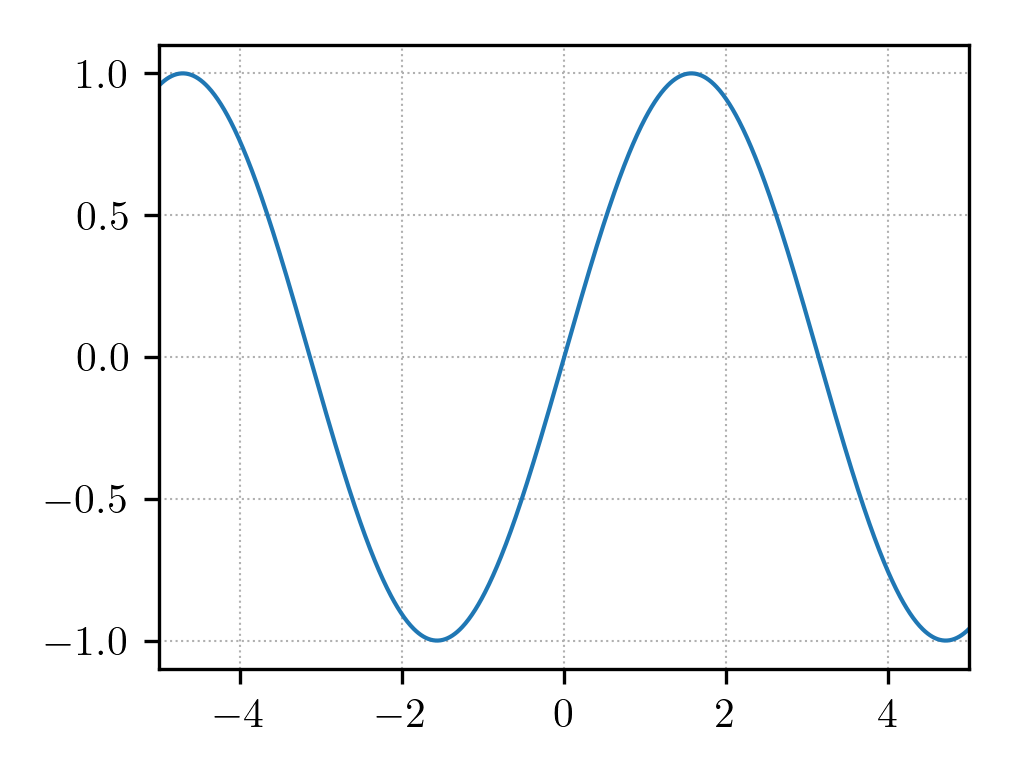
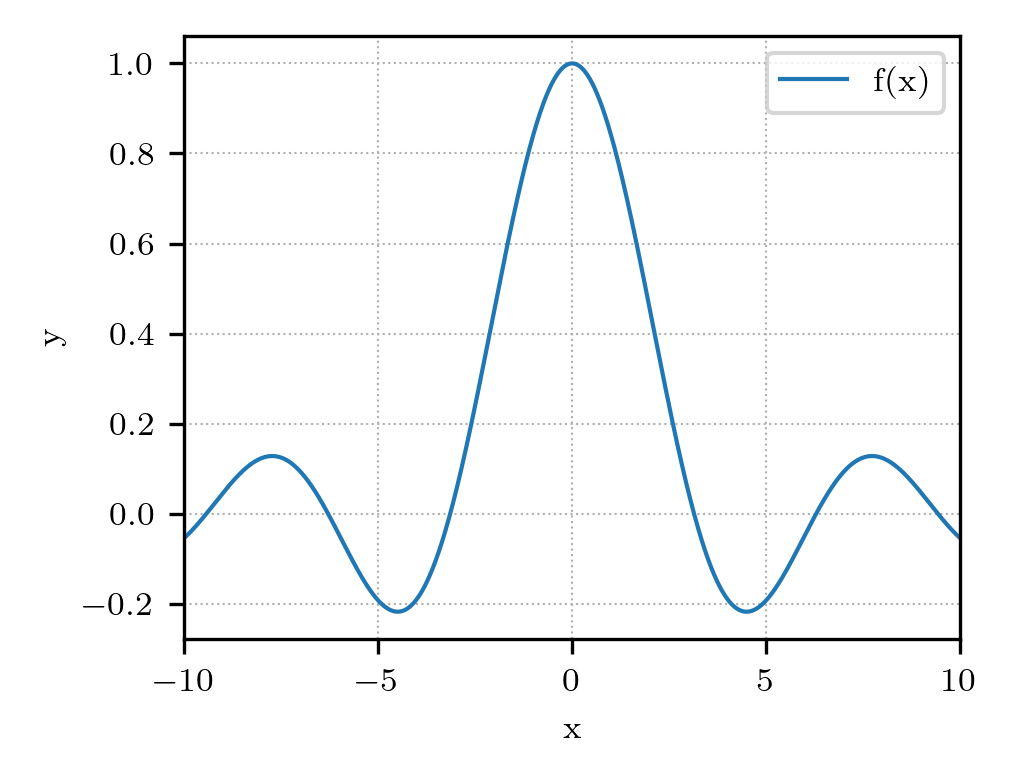
doc: improve examples

diff --git a/examples/examples.py b/examples/examples.py
@@ -9,14 +9,22 @@ import matplotlib.pyplot as plt
 from mplstyles import get_mplstyles, mplstyle_context
 
 
+def plot(x, y):
+    fig, ax = plt.subplots()
+    ax.plot(x, y, label="f(x)")
+    ax.set_xlabel("x")
+    ax.set_ylabel("y")
+    ax.legend()
+    return fig, ax
+
+
 def main():
-    x = np.linspace(-5, +5, 1001)
-    y = np.sin(x)
+    x = np.linspace(-10, +10, 1000)
+    y = np.sin(x) / x
 
     for style in get_mplstyles():
         with mplstyle_context(style):
-            fig, ax = plt.subplots()
-            ax.plot(x, y)
+            fig, ax = plot(x, y)
             fig.savefig(f"{style}.png")
 
 
